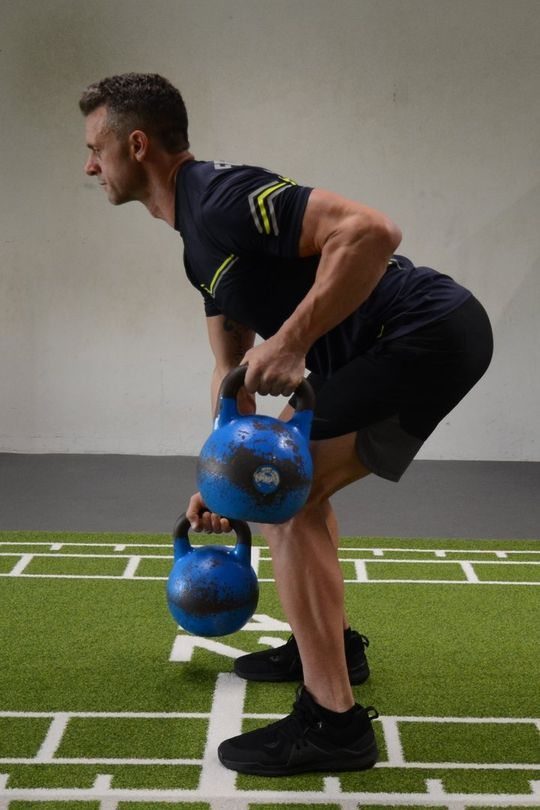
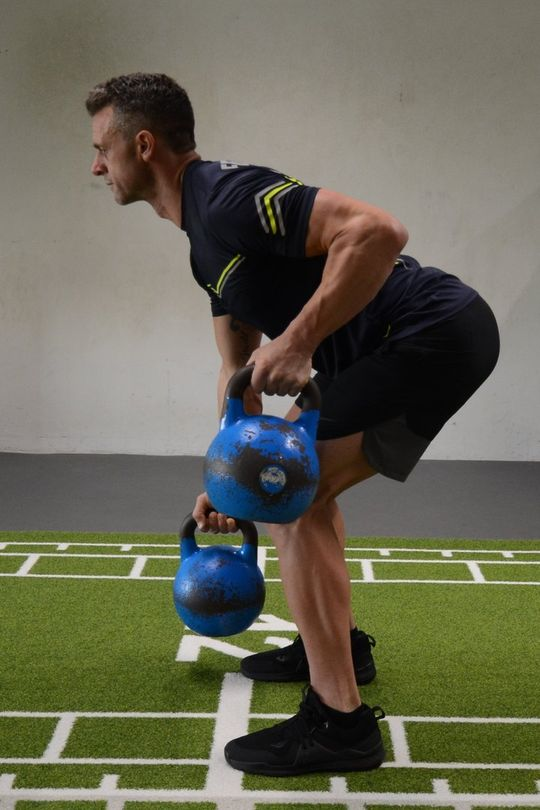
Übungsfotos ohne abgeschnittene Köpfe und Füße
Fotos neu aus den Originalen zugeschnitten (2:3, ganze Person
sichtbar) und Bildformat in den Karten auf 2:3 vereinheitlicht.

Claude-Session: https://claude.ai/code/session_01MuYyDM3FBbDc3njENDeAKU

diff --git a/assets/css/style.css b/assets/css/style.css
@@ -11,7 +11,7 @@ a{color:#B3261E}a:hover{color:#7E1A14}
 button{font:inherit}
 :focus-visible{outline:3px solid #B3261E;outline-offset:3px}
 .ex-grid{grid-template-columns:repeat(8,minmax(0,1fr))}
-.ex-img{aspect-ratio:3/4}
+.ex-img{aspect-ratio:2/3}
 .ex-name{font-size:15px}
 .ex-task{font-size:13px}
 .ex-name,.ex-task{hyphens:auto;-webkit-hyphens:auto;overflow-wrap:break-word}
@@ -23,4 +23,4 @@ button{font:inherit}
 @media (max-width:600px){[style*="padding: 80px 24px"],[style*="padding: 88px 24px"]{padding:48px 16px !important}[style*="padding: 72px 24px"]{padding:40px 16px !important}#top{padding:36px 16px 48px !important;gap:32px !important}nav{padding:12px 16px !important}main{padding:40px 16px 56px !important}[style*="padding: 28px"]{padding:20px !important}[style*="padding: 28px 24px"]{padding:24px 16px !important}h1{font-size:34px !important}#top h1{font-size:44px !important}h2{font-size:30px !important}[style*="margin: 0 0 40px"],[style*="margin: 0 0 44px"],[style*="margin-bottom: 40px"],[style*="margin-bottom: 44px"]{margin-bottom:24px !important}h3[style*="font-size: 24px"]{font-size:20px !important}[style*="font-size: 20px"]{font-size:17px !important}[style*="font-size: 18px"],[style*="font-size: 17px"]{font-size:16px !important}[style*="font-size: 40px"]{font-size:30px !important}[style*="font-size: 32px"]{font-size:26px !important}[style*="font-size: 28px"]{font-size:22px !important}[style*="gap: 24px 56px"],[style*="gap: 28px 56px"],[style*="gap: 36px 56px"],[style*="gap: 48px"],[style*="gap: 56px"]{gap:24px !important}[style*="gap: 40px"]{gap:28px !important}img[alt="Porträt Felix Sempf"]{max-width:220px !important}}
 .pub-cb,.pub-toggle{display:none}
 @media (max-width:600px){.pub{padding:18px !important;gap:8px !important}.pub-year{flex:0 0 100% !important;display:flex;align-items:center;gap:10px}.pub-year>div:first-child{font-size:20px !important}.pub-year>div:nth-child(2){margin-top:0 !important}.pub-body{flex-basis:100% !important}.pub-body h3{font-size:17px !important}.pub-desc,.pub-poster{display:none !important}.pub:has(.pub-cb:checked) .pub-desc{display:block !important;margin-bottom:10px !important}.pub:has(.pub-cb:checked) .pub-poster{display:block !important;max-width:100% !important}.pub-cb{position:absolute;opacity:0;width:1px;height:1px}.pub-toggle{display:inline-flex;align-items:center;min-height:44px;margin-top:4px;font-size:15px;font-weight:600;color:#B3261E;cursor:pointer}.pub-toggle::after{content:"Mehr anzeigen \25BE"}.pub:has(.pub-cb:checked) .pub-toggle::after{content:"Weniger anzeigen \25B4"}.pub-cb:focus-visible+.pub-toggle{outline:3px solid #B3261E;outline-offset:3px}}
-@media (max-width:600px){.ex-grid{gap:10px !important;grid-template-columns:repeat(2,minmax(0,1fr))}.ex-card{padding:8px !important;gap:10px !important;border-radius:12px !important}.ex-img{aspect-ratio:3/4}.ex-text{padding:0 4px 4px !important}.ex-name{font-size:15px}.ex-task{font-size:13px}}
+@media (max-width:600px){.ex-grid{gap:10px !important;grid-template-columns:repeat(2,minmax(0,1fr))}.ex-card{padding:8px !important;gap:10px !important;border-radius:12px !important}.ex-text{padding:0 4px 4px !important}.ex-name{font-size:15px}.ex-task{font-size:13px}}
